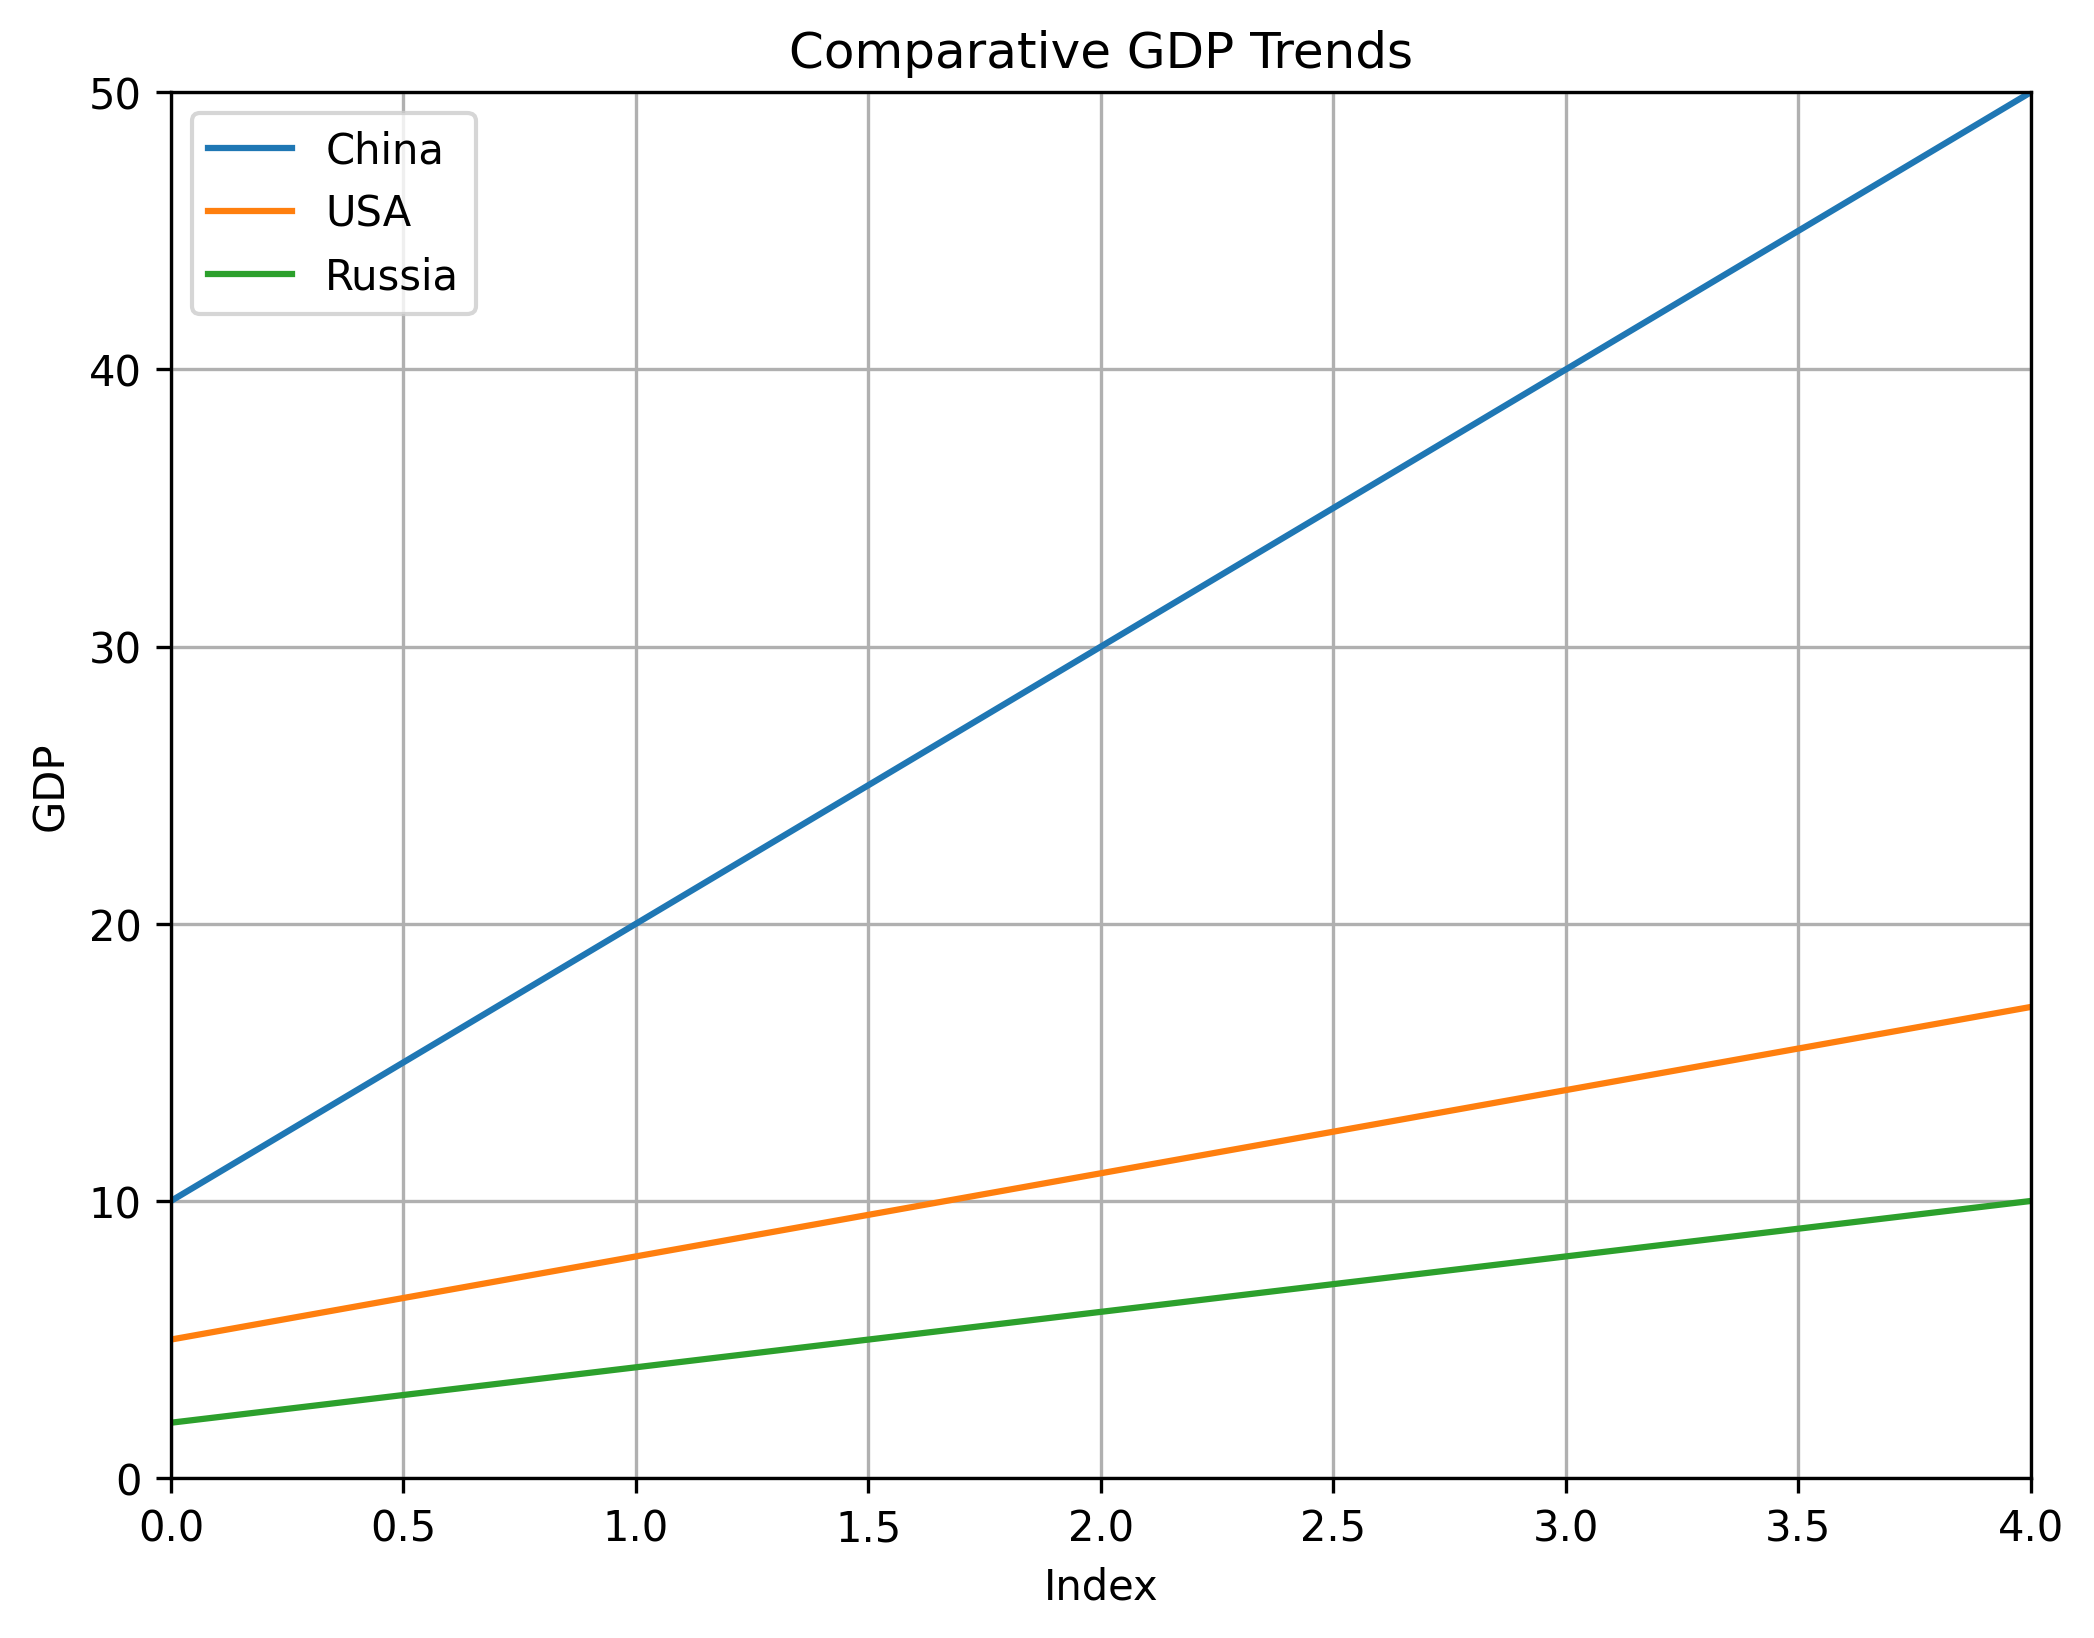
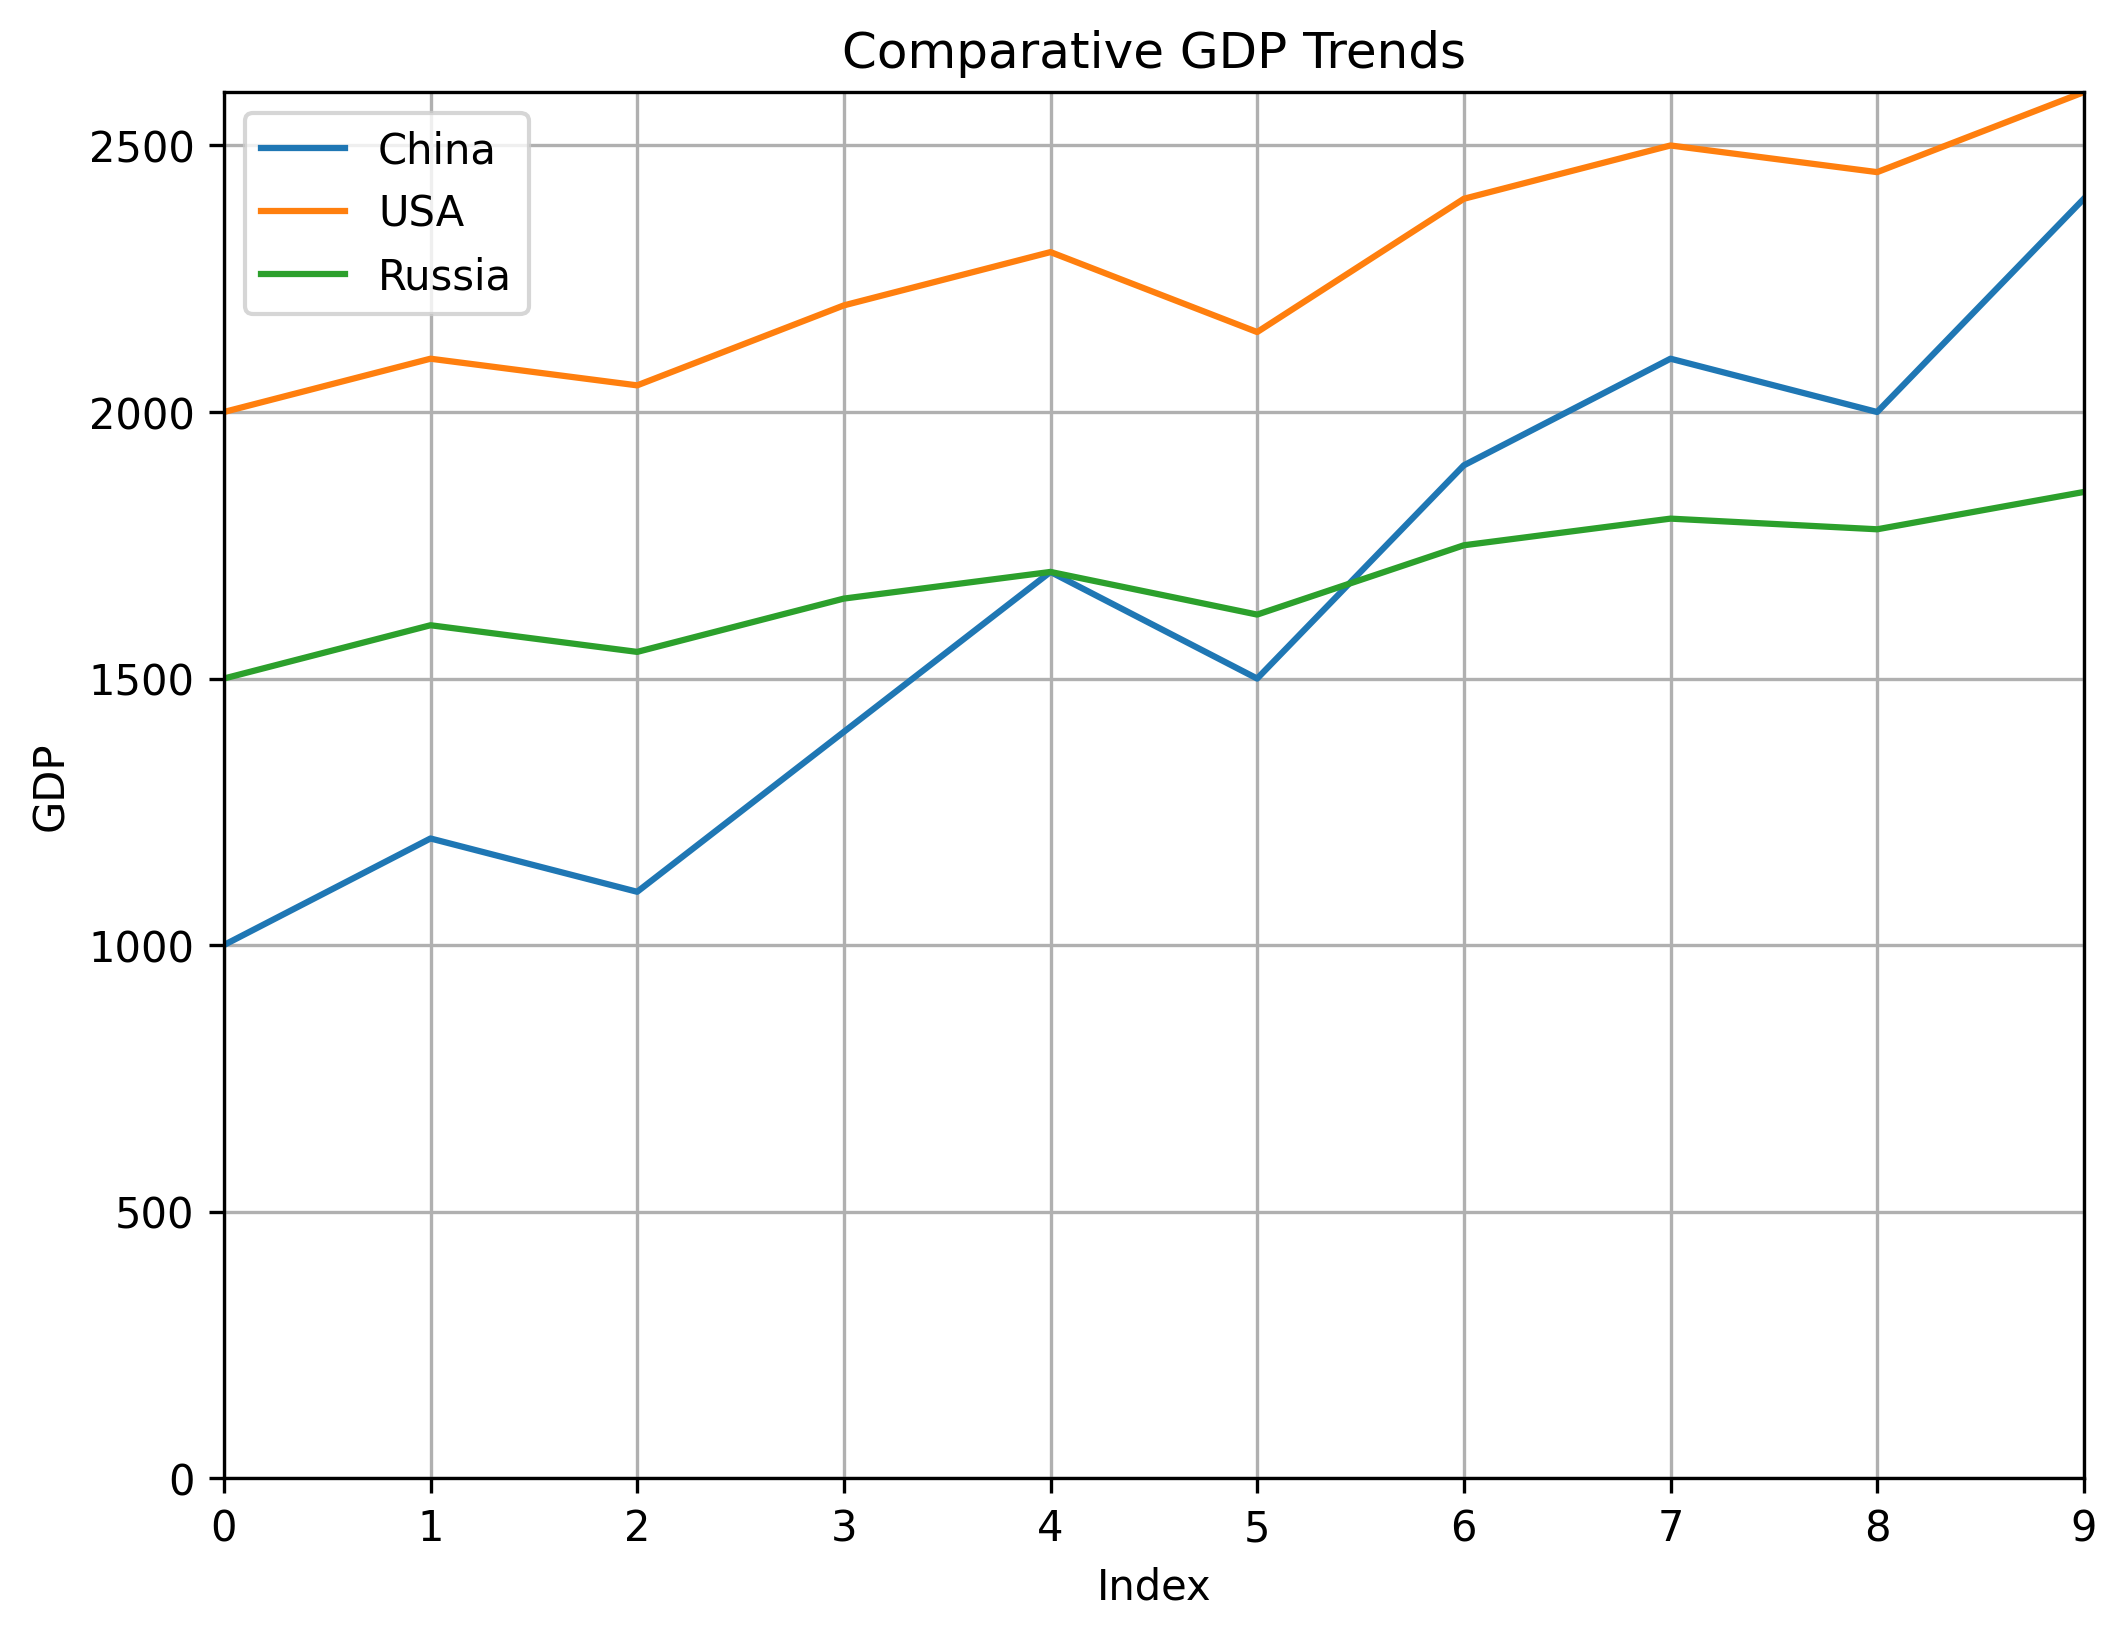
wip Prompt engineering

diff --git a/gfx/plot.py b/gfx/plot.py
@@ -1,26 +1,38 @@
 # Import necessary libraries
 import pandas as pd
 import matplotlib.pyplot as plt
+import seaborn as sns
 
 def plot_GDP(filename):
     # Load data from CSV file
     data = pd.read_csv(filename)
 
-    # Create line plot
-    plt.figure(figsize=(8, 6))
+    # Set up the figure and axes
+    plt.figure(figsize=(10, 6))
+    ax = plt.axes()
+
+    # Set the color scheme
+    sns.set_palette("Paired")
+
+    # Plot the data
     plt.plot(data['China'], label='China')
     plt.plot(data['USA'], label='USA')
     plt.plot(data['Russia'], label='Russia')
 
-    # Set labels and title
-    plt.xlabel('Index')
-    plt.ylabel('GDP')
-    plt.title('Comparative GDP Trends')
+    # Set the title and axis labels
+    plt.title('GDP Trends from 1980 to 2020 (in USD)')
+    plt.xlabel('Year')
+    plt.ylabel('GDP (in USD)')
 
-    # Add legend
+    # Set the tick labels
+    ax.set_xticks(range(len(data)))
+    ax.set_xticklabels(range(1980, 2021, 5))
+    ax.ticklabel_format(style='plain', axis='y')
+
+    # Add a legend
     plt.legend()
 
-    # Set grid and axis limits
+    # Set the grid and axis limits
     plt.grid(True)
     plt.xlim(0, len(data) - 1)
     plt.ylim(0, max(data.max()))
